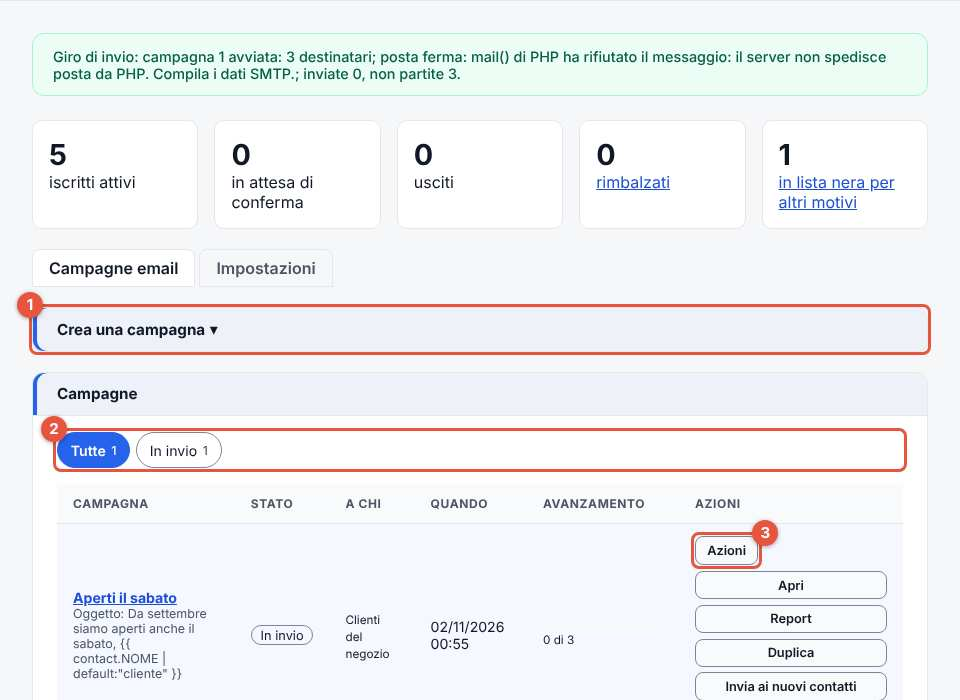
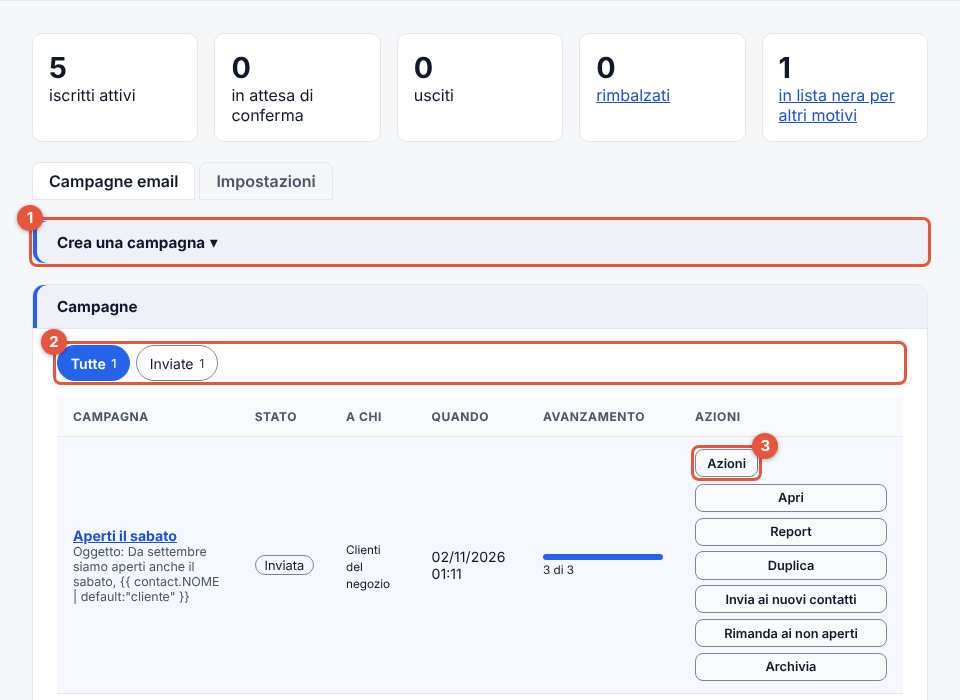
2.11.0: titolo di Duplica e Rimanda nella fascia, prova del riepilogo anche in cartella, schermate del capitolo 20 rifatte su un sito nuovo
Claude-Session: https://claude.ai/code/session_01Ddnix1ocLSpj3D8QhkAFuA

diff --git a/prove/prova-campagna-riepilogo.js b/prove/prova-campagna-riepilogo.js
@@ -243,7 +243,13 @@ const href = (html, re) => { const m = html.match(new RegExp('href="([^"]*' + re
   ok('la copia arriva agli stessi 4', chi(m) === 'a1,a2,a3,a7' && uno(`SELECT stato FROM {p}newsletter_campagne WHERE id = ${c2}`) === 'inviata', chi(m));
   // a1 apre l'email (il pixel)
   const pixel = (m.find(x => x.dest === 'a1@cr-prova.it').html.match(/<img src="([^"]*api\/nl\.php\?a=a[^"]*)"/) || [])[1].replace(/&amp;/g, '&');
-  await ctx.request.get(pixel);
+  const rpx = await ctx.request.get(pixel);
+  if (!/image\/gif/.test(rpx.headers()['content-type'] || '')) {
+    // Difetto di prima della 2.11.0 (nl_url_evento, includes/newsletter-flussi.php): con il sito in una cartella il pixel ha la
+    // cartella due volte e non si apre. Non è di questa prova: l'apertura si segna dal database, e si dice.
+    console.log('NOTA: il pixel di apertura non si apre (' + rpx.status() + ', ' + pixel.replace(/\?.*/, '') + '): apertura segnata dal database');
+    q(`INSERT INTO {p}newsletter_eventi (campagna_id, flusso_id, passo, iscritto_id, tipo, url, creato) VALUES (${c2}, 0, 0, ${C.a1}, 'apertura', '', NOW())`);
+  }
   ok('a1 apre la copia (pixel)', num(`SELECT COUNT(*) FROM {p}newsletter_eventi WHERE campagna_id = ${c2} AND tipo = 'apertura' AND iscritto_id = ${C.a1}`) === 1);
 
   // ===== Rimanda ai non aperti, una volta sola

diff --git a/cms/admin/newsletter.php b/cms/admin/newsletter.php
@@ -211,8 +211,8 @@ require_once __DIR__ . '/includes/admin-header.php';
 
 <?php if ($dup): ?>
 <form method="post" class="form-card" id="nl-duplica" style="margin-top:1.25rem">
-  <?= csrf_field() ?><input type="hidden" name="azione" value="duplica"><input type="hidden" name="id" value="<?= (int)$dup['id'] ?>">
   <h3>Duplica «<?= h($nomeC($dup)) ?>»</h3>
+  <?= csrf_field() ?><input type="hidden" name="azione" value="duplica"><input type="hidden" name="id" value="<?= (int)$dup['id'] ?>">
   <fieldset class="nlk-scelte"><legend>Cosa copiare nella campagna nuova</legend>
     <?php foreach (NL_CAMP_PARTI as $k => [$et]): ?><label><input type="checkbox" name="parti[]" value="<?= $k ?>" checked> <?= h($et) ?></label><?php endforeach; ?>
   </fieldset>
@@ -222,8 +222,8 @@ require_once __DIR__ . '/includes/admin-header.php';
 <?php endif; ?>
 <?php if ($rim): $rimErr = newsletter_rinvio_possibile($rim); ?>
 <form method="post" class="form-card" id="nl-rimanda" style="margin-top:1.25rem">
-  <?= csrf_field() ?><input type="hidden" name="azione" value="rinvio"><input type="hidden" name="id" value="<?= (int)$rim['id'] ?>">
   <h3>Rimanda «<?= h($nomeC($rim)) ?>» ai non aperti</h3>
+  <?= csrf_field() ?><input type="hidden" name="azione" value="rinvio"><input type="hidden" name="id" value="<?= (int)$rim['id'] ?>">
   <?php if ($rimErr !== ''): ?><p class="nl-avviso" role="alert"><?= h($rimErr) ?></p><a class="btn btn-secondary" href="newsletter.php">Torna all'elenco</a>
   <?php else: ?>
   <p class="hint" style="margin-top:0">Arriva a <b><?= newsletter_non_aperti((int)$rim['id']) ?></b> contatti che l'hanno ricevuta e non l'hanno aperta (contati adesso). Si fa una volta sola. Un oggetto diverso aiuta: chi non l'ha aperta forse non ha notato il primo.</p>
